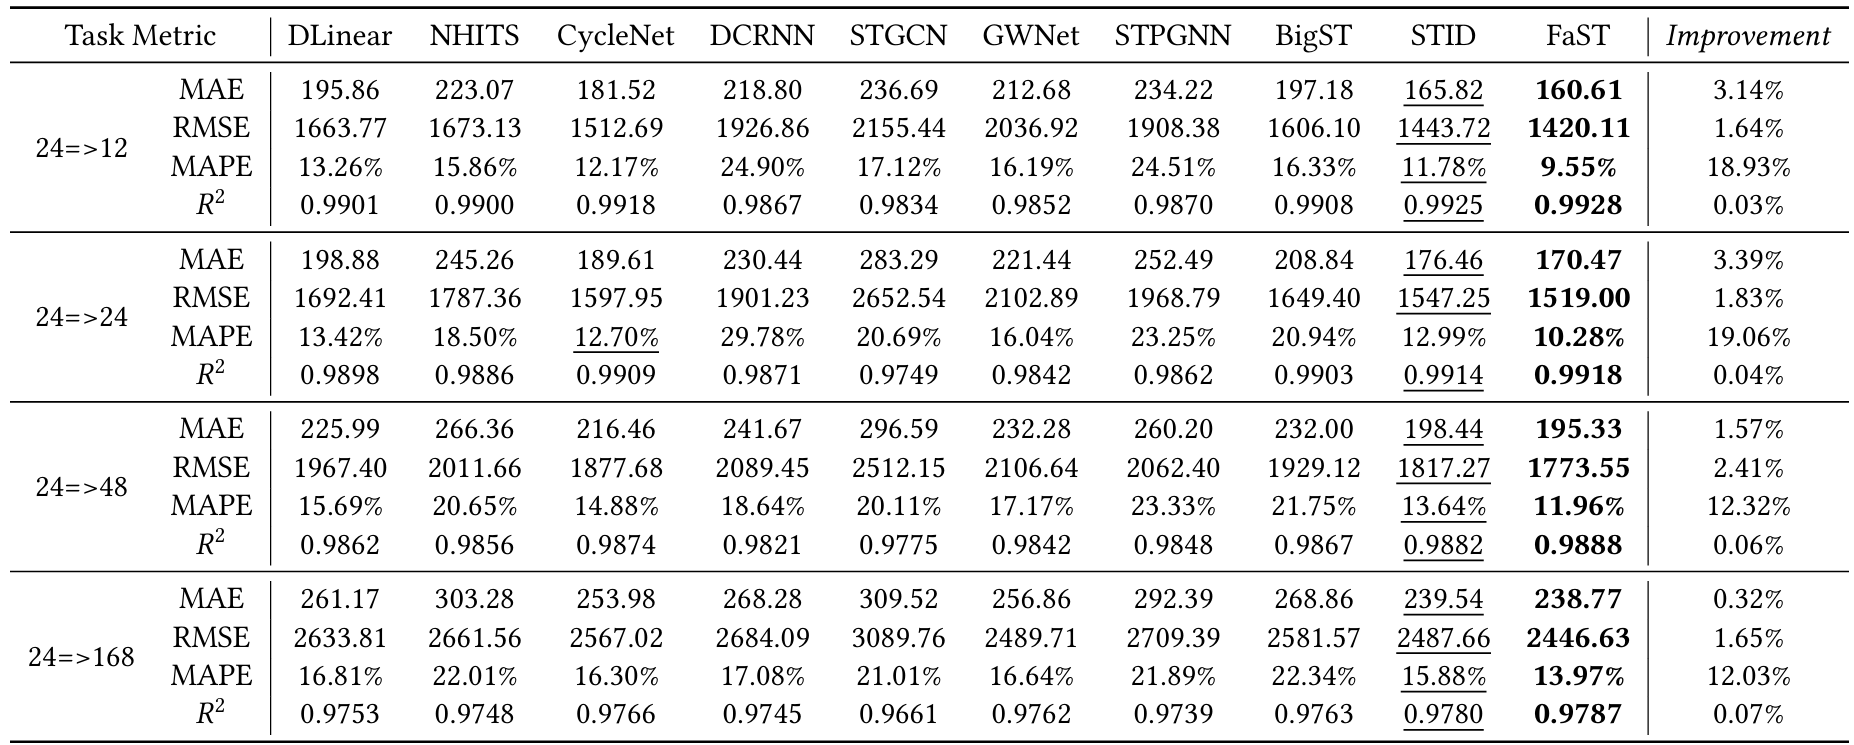
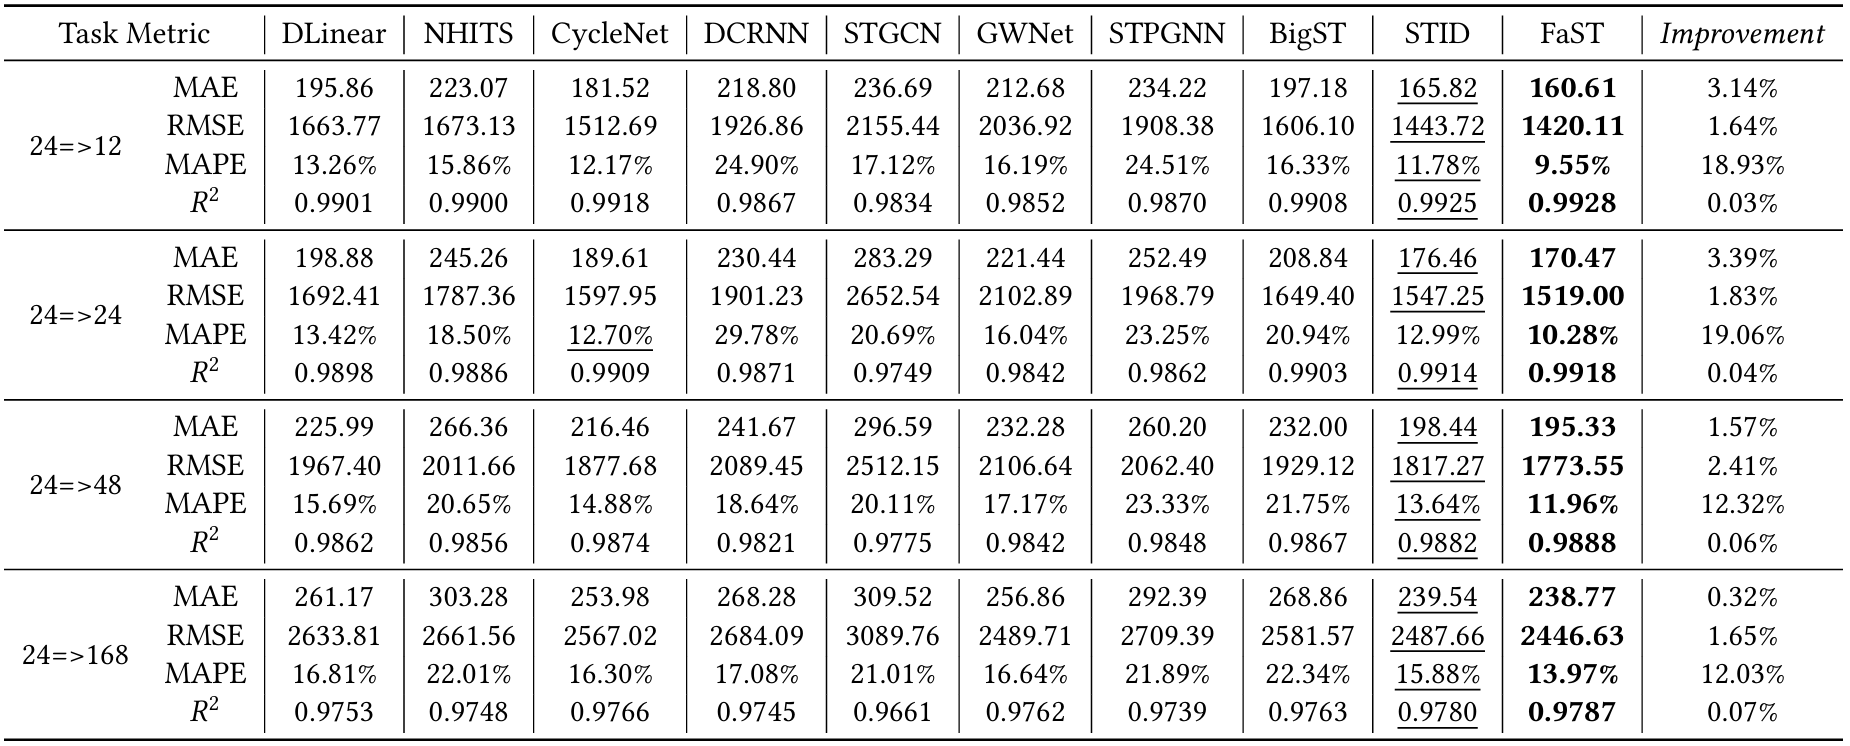
main

Changed region(s): [[0.0, 0.0, 1.0, 1.0]]

diff --git a/README.md b/README.md
@@ -115,11 +115,11 @@ python main-master/experiments/evaluate.py -cfg  FaST/SD_96_672.py -ckpt Paramet
 ```
 ### 1.6 Experimental Results
 
-Thank you for the constructive suggestion. We have added and reported the **$R^2$ (coefficient of determination)** metric on the **CA** dataset. This metric quantifies the **proportion of variance explained** by the model, with a range of $(-\infty, 1]$; values closer to 1 indicate a better fit/prediction, whereas negative values imply performance worse than a simple baseline (e.g., predicting the mean). Our method achieves the **best $R^2$** on the CA dataset, further demonstrating its effectiveness in this setting. Detailed results are provided in **Tables 2** and **3**. **We also include experiments for the 12-step-ahead forecasting setting**, which assess short-horizon performance; the corresponding results are incorporated into **Tables 2/3** and are consistent with our main findings.
+Thank you for the constructive suggestion. We have added and reported the **$R^2$ (coefficient of determination)** metric on the **CA** dataset. $R^2$ measures the **proportion of variance explained** by the model, ranging over $(-\infty, 1]$; values closer to 1 indicate a better fit/prediction, whereas negative values indicate performance worse than a simple baseline (e.g., predicting the mean). On **CA**, our method attains the **best $R^2$**, corroborating its effectiveness. Detailed numbers appear in **Tables 2** and **3**. We also include the **12-step-ahead** setting to assess short-horizon performance; the corresponding results are incorporated into **Tables 2/3** and align with our main findings.
 
-Beyond the previous updates, we **add experiments on the Electricity dataset** covering **24⇒12/24/48/168** forecasting horizons to examine robustness and generalization across different look-ahead settings. The results are summarized in **Table 4** and remain consistent with our main findings on other datasets, further supporting the effectiveness of our method under varying horizons.
+Beyond that, we add experiments on the **Electricity** dataset spanning **24⇒12/24/48/168** horizons to evaluate robustness and generalization across look-ahead settings. The results are summarized in **Table 4** and remain consistent with those on other datasets.
 
-In addition, **Table 5** lists the **batch-size settings** used by different models across datasets to facilitate reproducibility and ensure a fair comparison. 
+In addition, **Table 5** lists the **batch-size** configurations used by different models across datasets to facilitate reproducibility and ensure a fair comparison.
 
 <p align="center"><b>Table&nbsp;2</b> Performance comparisons on CA (96=>12/48/96).</p>
 
@@ -131,7 +131,7 @@ In addition, **Table 5** lists the **batch-size settings** used by different mod
 <img src="src/results2.png" alt="Table 3 Results" style="width:80%;">
 </p>
 
-<p align="center"><b>Table&nbsp;4</b> Performance comparisons on Electricity (24=>12/24/48/168).</p>
+<p align="center"><b>Table&nbsp;4</b> Performance comparisons on Electricity (24=>12/24/48/168). Improvement is the percentage improvement of the best method over the second-best.</p>
 
 ![Table 4 Results1](src/results3.png)
 
